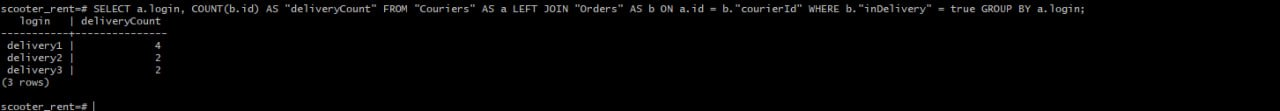
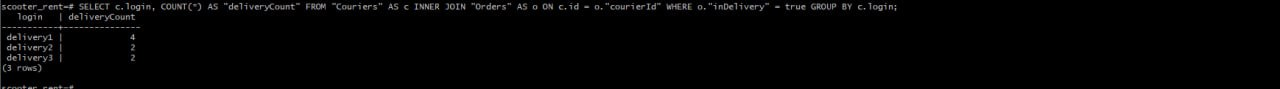
Добавлен новый скриншот для задания 1, добавлены текстовые файлы с SQL запросами, исправлено описание файла readme

diff --git a/README.md b/README.md
@@ -1,14 +1,7 @@
 Павел Мичка, 20-я когорта, - Финальный проект. Инженер по тестированию плюс.
- # **Практический блок: вторая часть**
-# Работа с базой данных
-- **Задание №1:** 
-
-SELECT a.login, COUNT(b.id) AS "deliveryCount" FROM "Couriers" AS a LEFT JOIN "Orders" AS b ON a.id = b."courierId" WHERE b."inDelivery" = true GROUP BY a.login;
-- **Задание №2:** 
-
-SELECT a.track, CASE WHEN a.finished = true THEN 2 WHEN a.cancelled = true THEN -1 WHEN a."inDelivery" = true THEN 1 ELSE 0 END AS status FROM "Orders" AS a;
 
 # Автоматизация теста к API
+
 - Для запуска тестов должны быть установлены пакеты pytest и requests
 - Запуск всех тестов выполянется командой pytest
 - Для корректного запуска необходимо указать актуальный URL API в файле [configuration.py](configuration.py) в параметре URL_SERVICE
